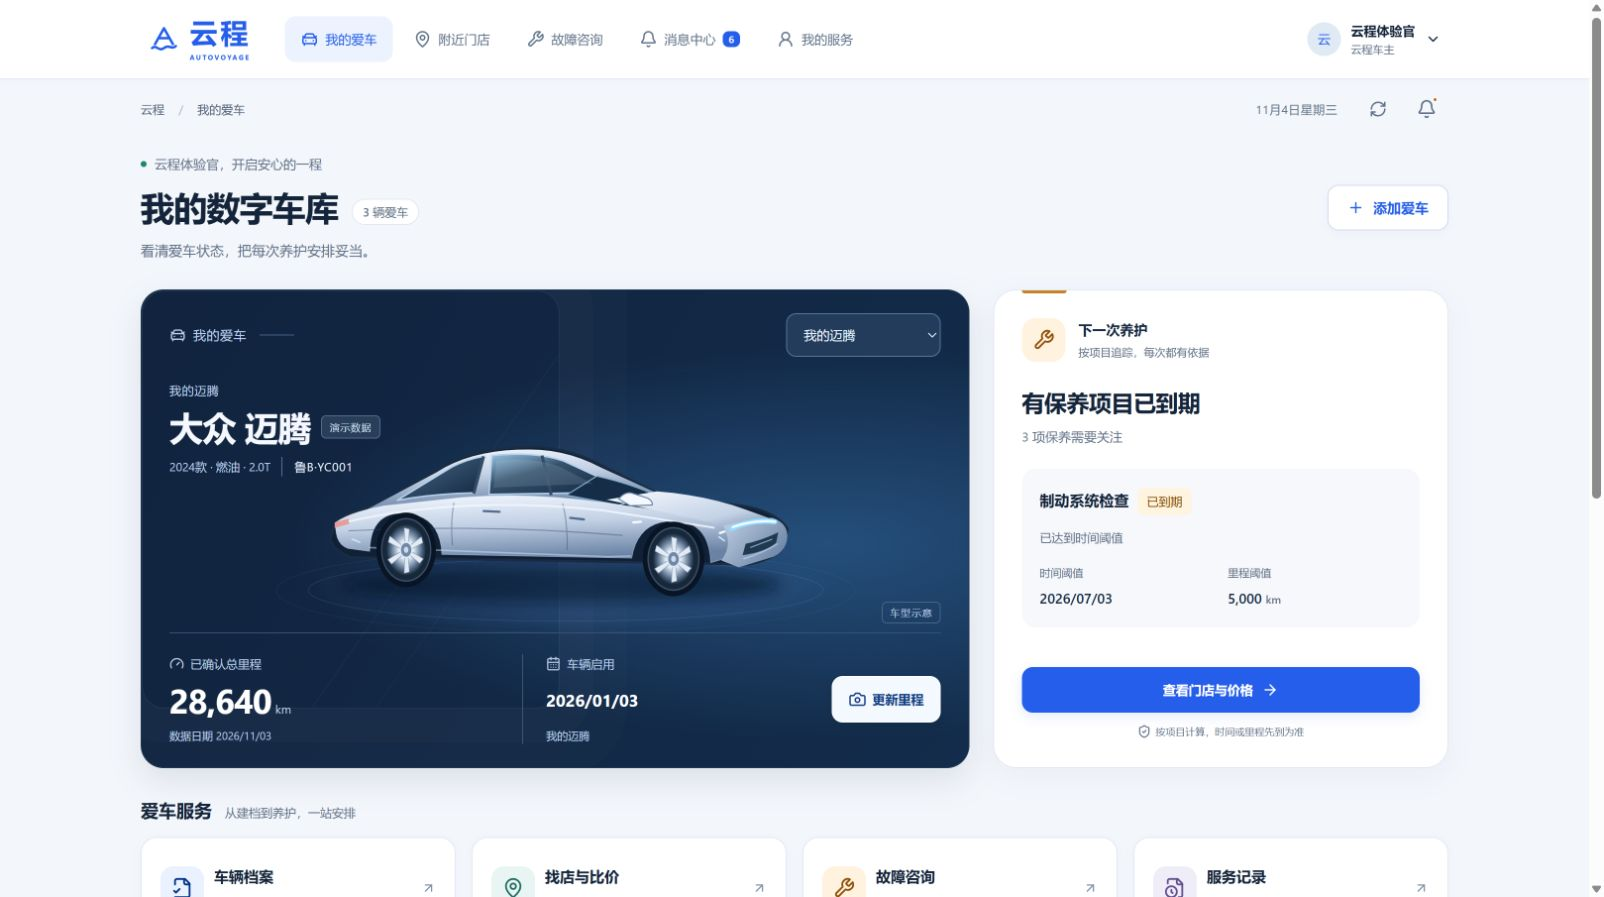
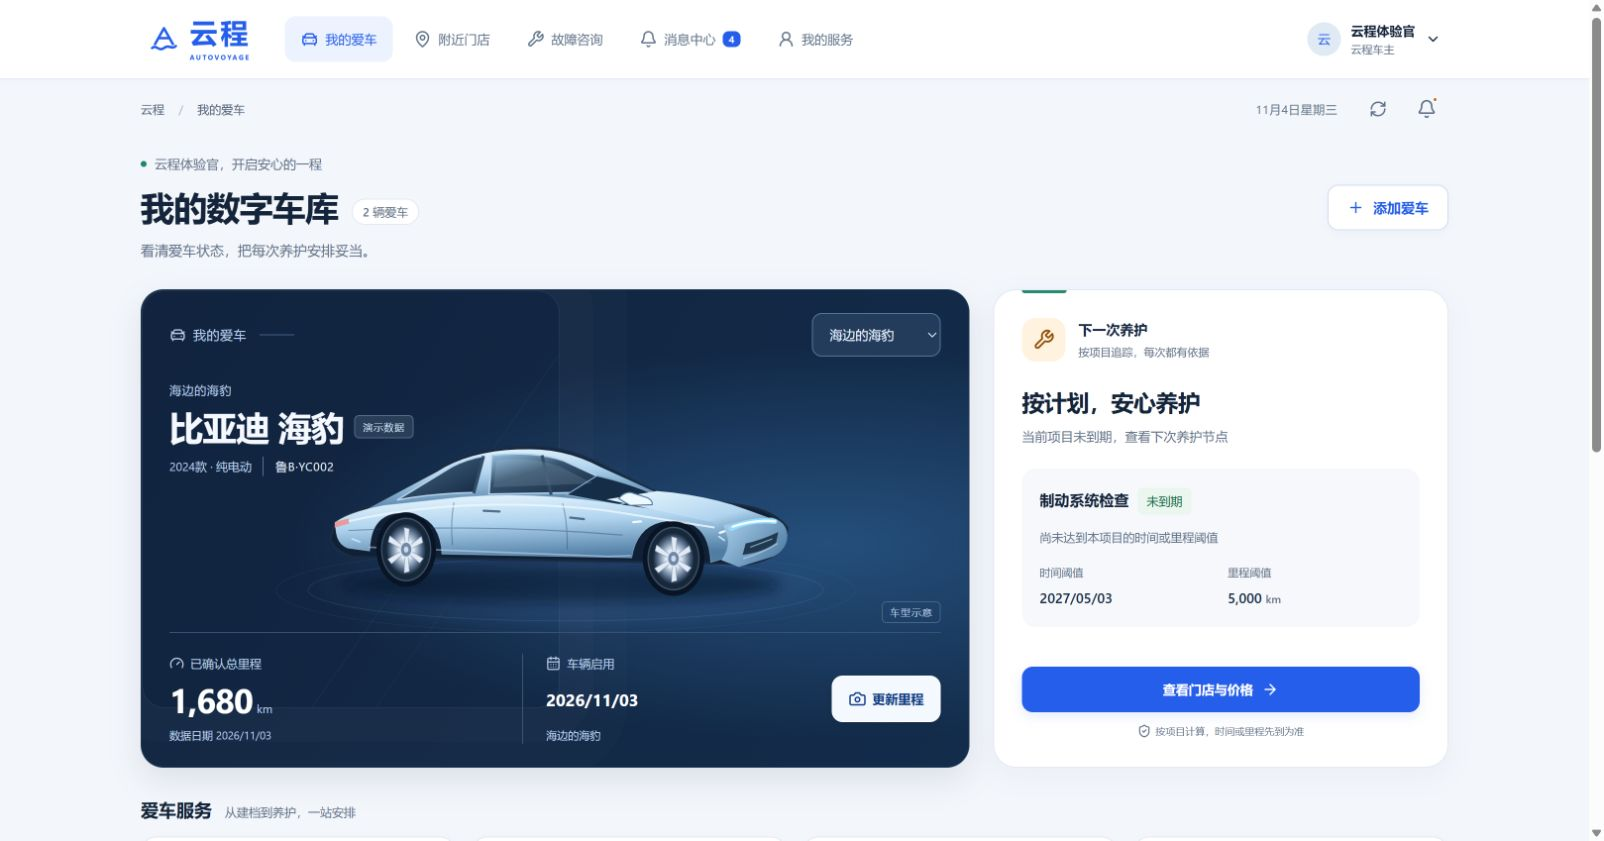
Document V0.3 deployment and verified garage and map screenshots

diff --git a/README.md b/README.md
@@ -19,7 +19,7 @@ React + TypeScript 车主 H5 / 管理 Web，Node.js + Fastify 统一 API，Postg
 | 门店专家 | 分配范围内的故障资料、补充信息、建议与费用预估 |
 | 平台管理员 | 标准项目、车型保养规则与资料来源、门店审核及审计记录 |
 
-V0.2 已部署实拍图改版与行驶证识别，线上应用镜像对应代码提交 `2e6107d`。后续文档提交不触发 Portainer 自动发布。完整代码检查通过，包含 27 项后端测试、类型检查和前后端构建；行驶证另完成 6 项真实 PostgreSQL 测试与云端真实 AI 合成样本识别。测试口径、截图和未验收项见 [验证记录](docs/verification.md)。
+V0.3 已部署原创汽车插画、数字车库与 OpenFreeMap 矢量地图，Web 镜像对应 `a0a690c`，API 保持 `2e6107d`。公网已确认地图道路、三家门店、选店、显隐及手机布局，截图见 [地图效果](docs/images/store-map.png)。完整代码检查及 GitHub Actions 通过，包含 27 项后端测试、类型检查和前后端构建。行驶证沿用此前完成的 6 项真实 PostgreSQL 测试与云端真实 AI 合成样本识别；详细范围见 [验证记录](docs/verification.md)。文档提交不触发 Portainer 自动发布。
 
 课程数据包括演示车型、规则、门店、价格与记录；当前车型目录包含迈腾和海豹。真实车型手册、真实证件准确率、手机真机兼容性和压力测试仍需独立验证。
 
